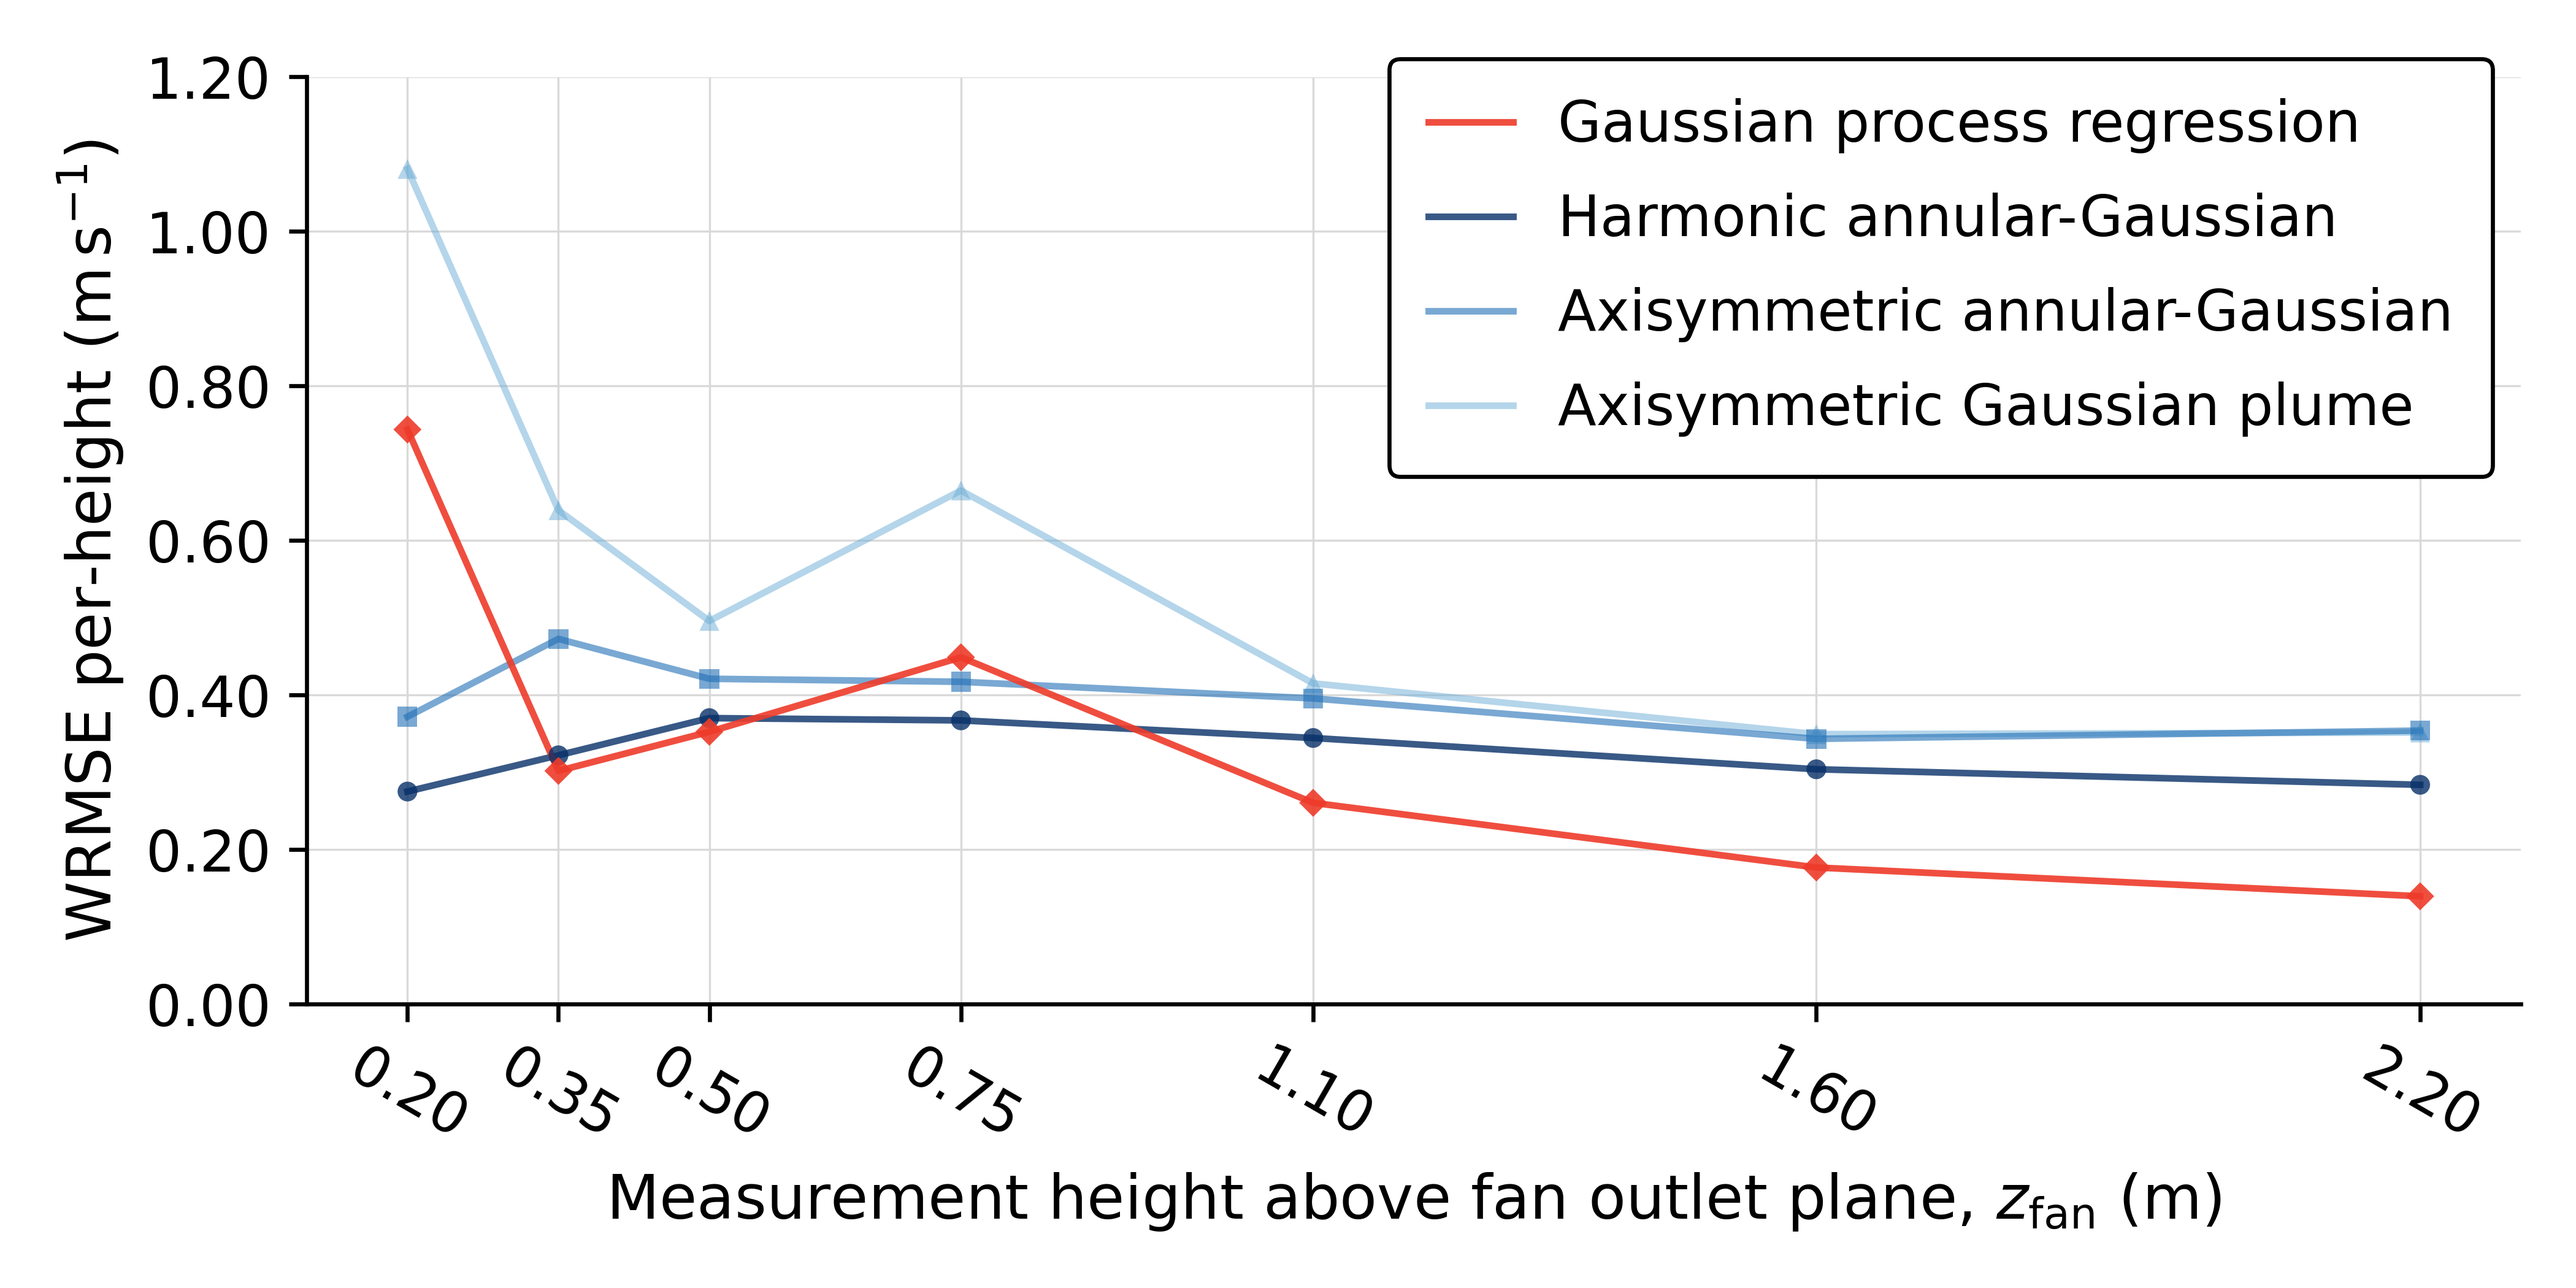
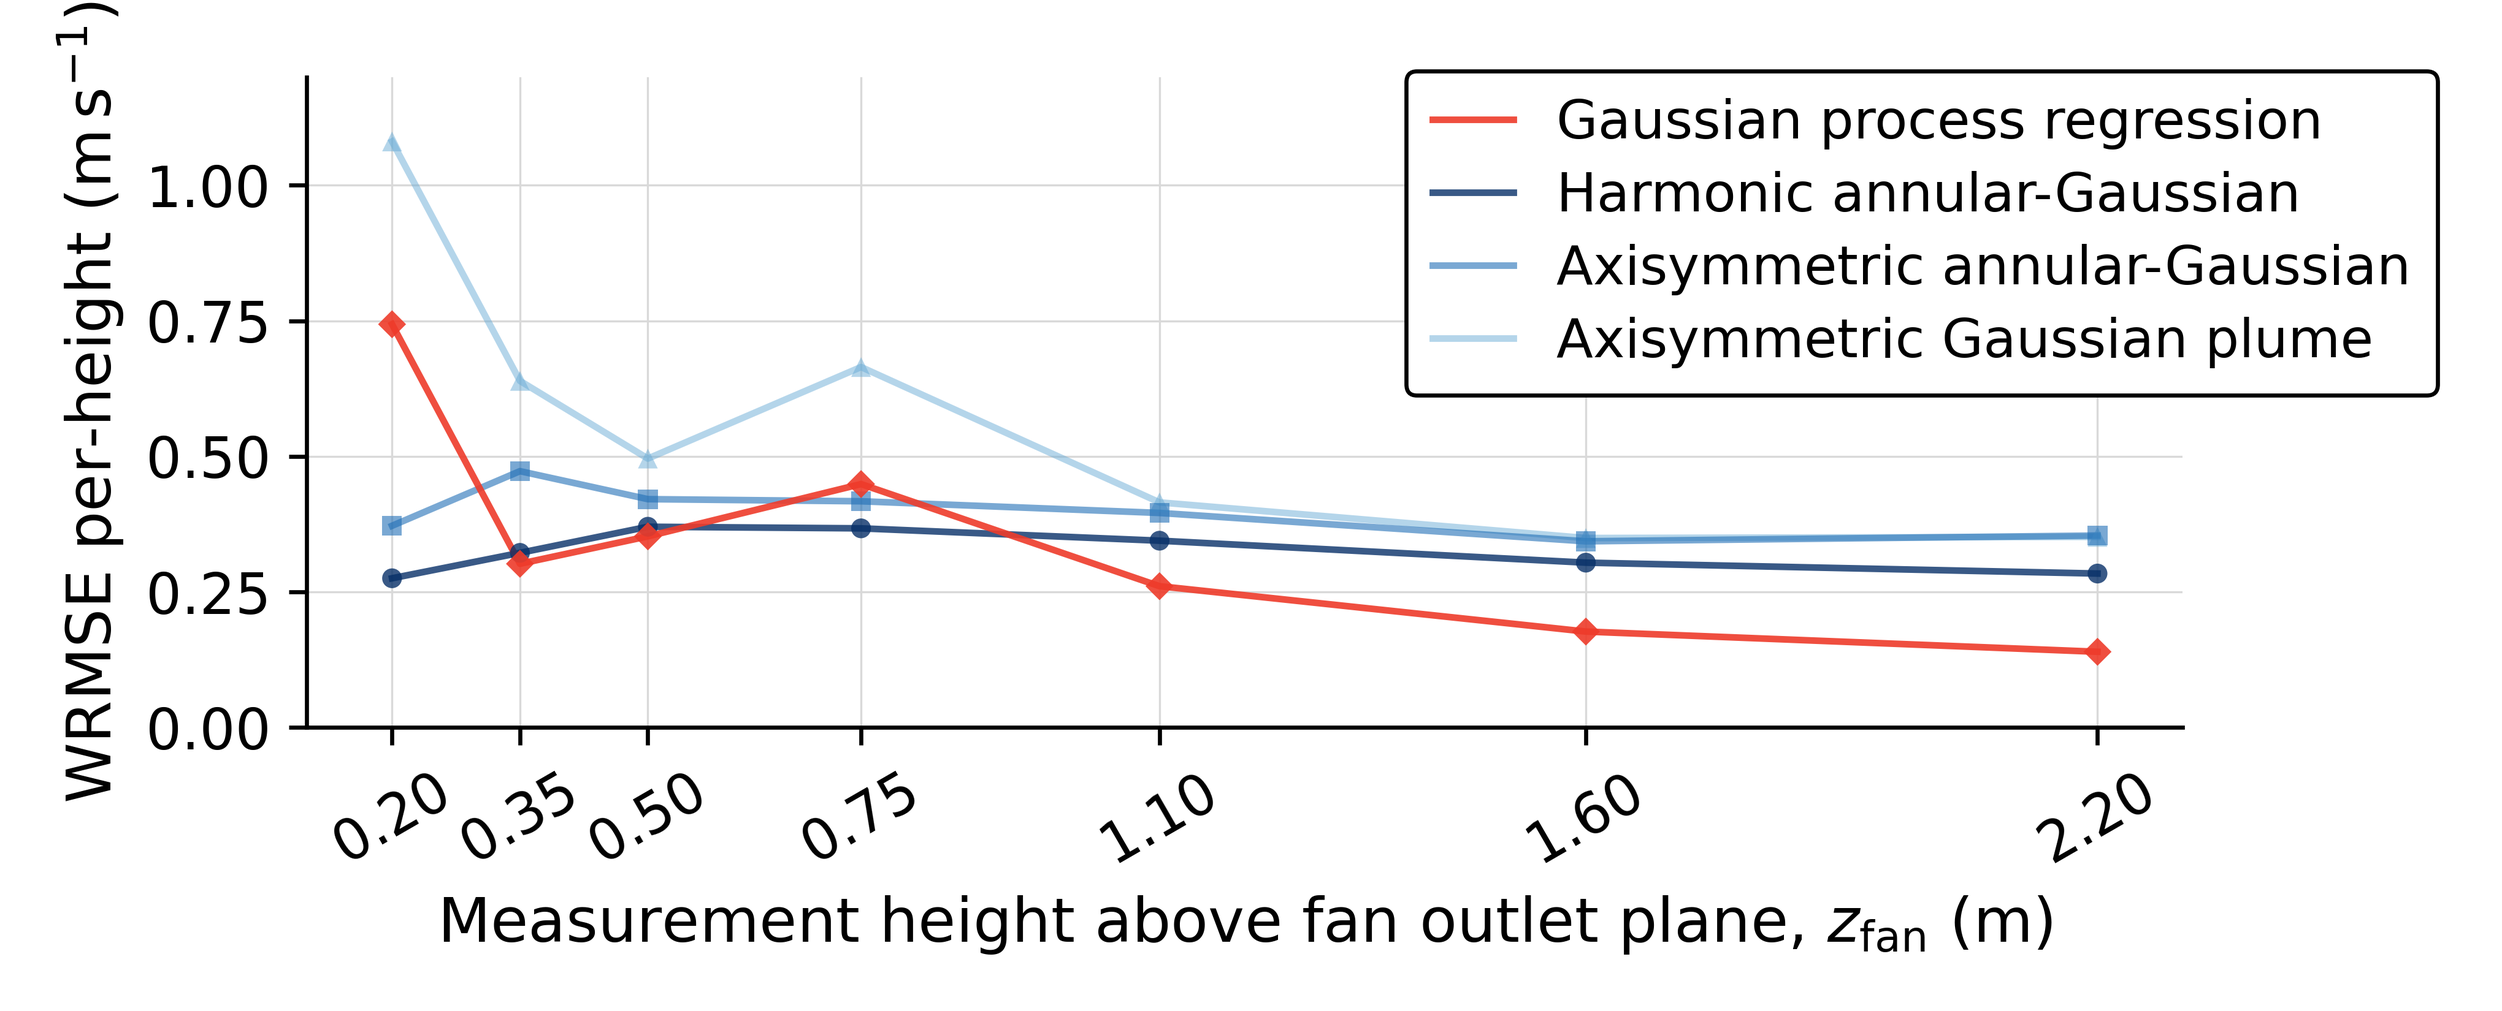
Thermal v3.4
- Python
- Minor update on the plotting

diff --git a/01_Thermal/four_fan_fitting_analysis.py b/01_Thermal/four_fan_fitting_analysis.py
@@ -10,14 +10,14 @@ from matplotlib.ticker import FormatStrFormatter
 
 
 # Legend styling
-LEGEND_FONT_SIZE = 11
+LEGEND_FONT_SIZE = 10.5
 AXIS_EDGE_LW = 0.80
 LEGEND_FRAME_LW = AXIS_EDGE_LW
 LEGEND_LOC = "upper right"
-LEGEND_BBOX_TO_ANCHOR = (1.00, 1.05)
+LEGEND_BBOX_TO_ANCHOR = (1.15, 1.05)
 LEGEND_HANDLE_LENGTH = 1.5
-LEGEND_BORDERPAD = 0.7
-LEGEND_LABEL_SPACING = 0.7
+LEGEND_BORDERPAD = 0.5
+LEGEND_LABEL_SPACING = 0.4
 # Manual y-axis limits per plot
 WRMSE_Y_LIMITS = (0.0, 1.20)
 SAE_Y_LIMITS = (0.0, 140.0)
@@ -128,7 +128,7 @@ def plot_metric_2d(
     out_path: Path,
     y_limits: tuple[float, float],
 ):
-    fig, ax = plt.subplots(figsize=(7.0, 3.5), dpi=600)
+    fig, ax = plt.subplots(figsize=(6.8, 2.75), dpi=600)
     fig.patch.set_facecolor("white")
     ax.set_facecolor("white")
     ax.set_axisbelow(True)

diff --git a/01_Thermal/single_fan_fitting_analysis.py b/01_Thermal/single_fan_fitting_analysis.py
@@ -10,14 +10,14 @@ from matplotlib.ticker import FormatStrFormatter
 
 
 # Legend styling
-LEGEND_FONT_SIZE = 11
+LEGEND_FONT_SIZE = 10.5
 AXIS_EDGE_LW = 0.80
 LEGEND_FRAME_LW = AXIS_EDGE_LW
 LEGEND_LOC = "upper right"
-LEGEND_BBOX_TO_ANCHOR = (1.00, 1.05)
+LEGEND_BBOX_TO_ANCHOR = (1.15, 1.05)
 LEGEND_HANDLE_LENGTH = 1.5
-LEGEND_BORDERPAD = 0.7
-LEGEND_LABEL_SPACING = 0.7
+LEGEND_BORDERPAD = 0.5
+LEGEND_LABEL_SPACING = 0.4
 # Manual y-axis limits per plot
 WRMSE_Y_LIMITS = (0.0, 0.60)
 SAE_Y_LIMITS = (0.0, 50.0)
@@ -128,7 +128,7 @@ def plot_metric_2d(
     out_path: Path,
     y_limits: tuple[float, float],
 ):
-    fig, ax = plt.subplots(figsize=(7.0, 3.5), dpi=600)
+    fig, ax = plt.subplots(figsize=(6.8, 2.75), dpi=600)
     fig.patch.set_facecolor("white")
     ax.set_facecolor("white")
     ax.set_axisbelow(True)
